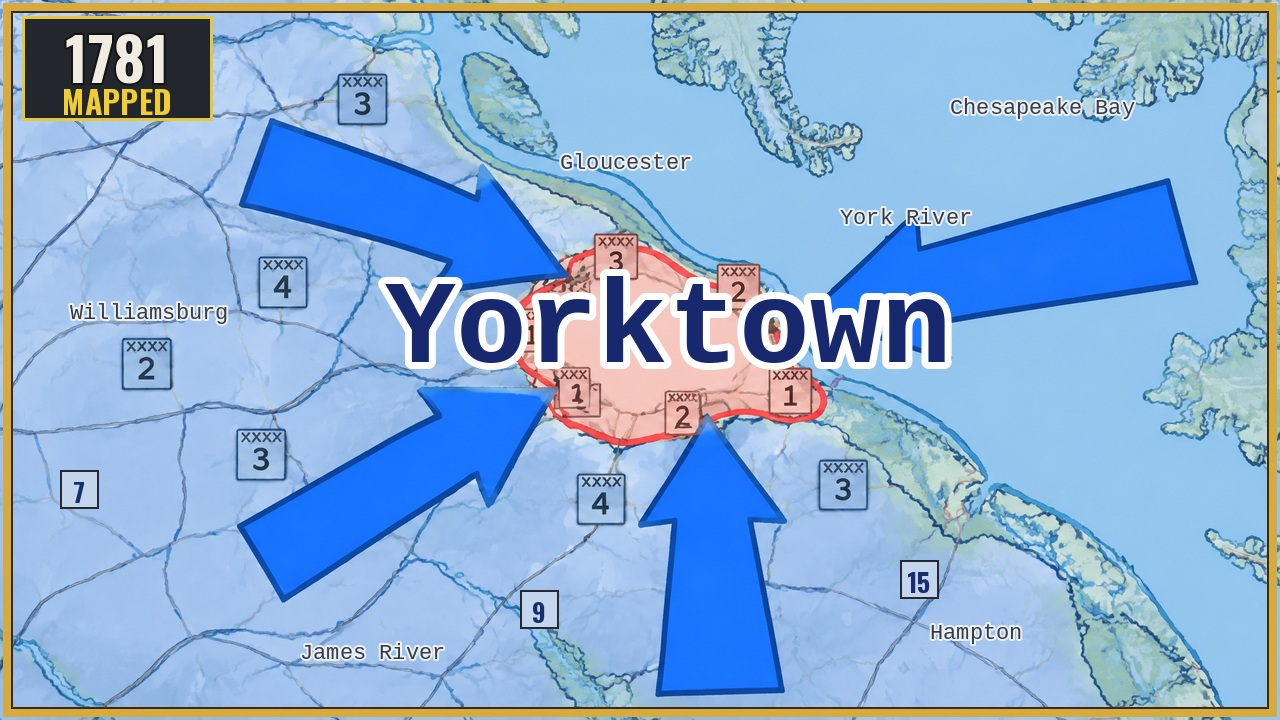
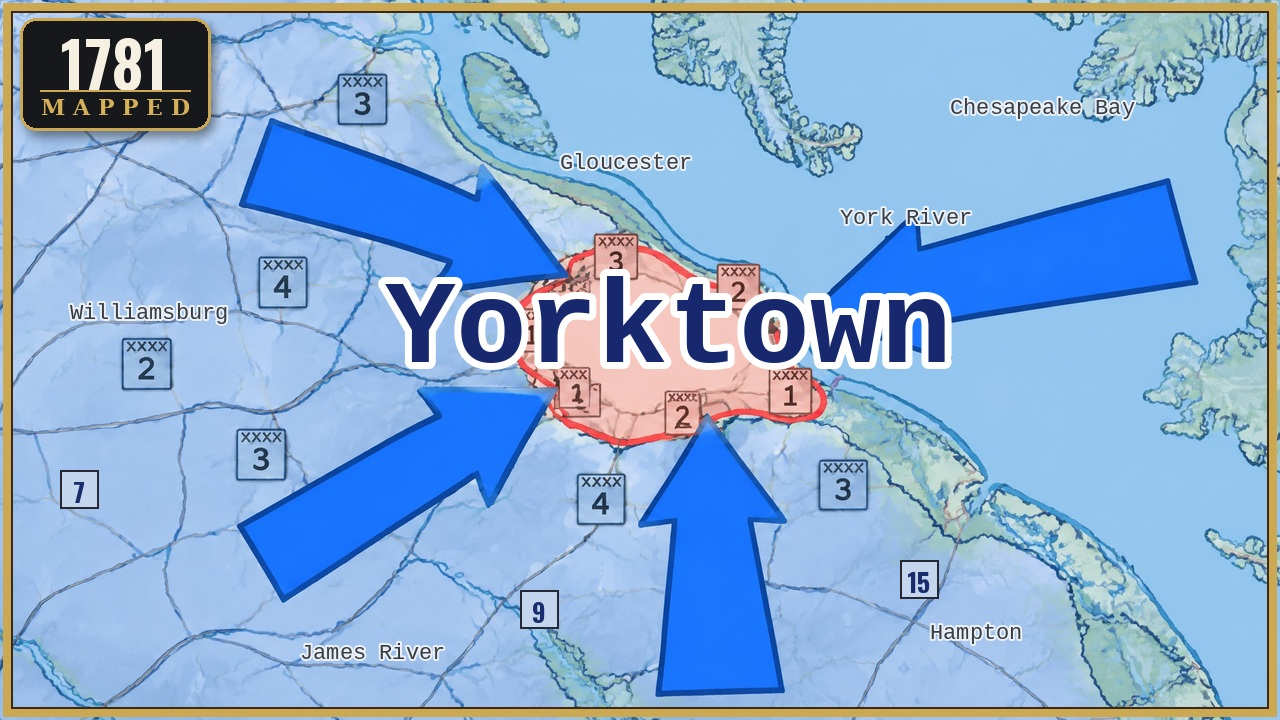
Yorktown: owner pick D2 with elegant 1781 MAPPED plate
Claude-Session: https://claude.ai/code/session_011uJnj9qiTapnfXz7fMPUDU

Changed region(s): [[0.0, 0.0, 0.1875, 0.2139]]

diff --git a/yorktown/tools/make_thumb_d2.py b/yorktown/tools/make_thumb_d2.py
@@ -20,13 +20,18 @@ for (x, y, n) in ():
     counter(x, y, n, (246, 196, 190), (130, 20, 20))
 # big place name (as before)
 d.text((668, 330), "Yorktown", font=ImageFont.truetype(MONO, 118), fill=(24, 40, 110), anchor="mm", stroke_width=7, stroke_fill=(255, 255, 255))
-# corner logo badge: stencil-like '1781' over 'MAPPED' (yellow), like the reference's 'WWII MAPPED'
-bx, by = 22, 16
-d.rectangle([bx, by, bx + 190, by + 104], fill=(35, 38, 45, 230), outline=(230, 200, 60), width=3)
-d.text((bx + 95, by + 40), "1781", font=ImageFont.truetype(O, 60), fill=(240, 236, 226), anchor="mm", stroke_width=2, stroke_fill=(20, 20, 20))
-d.text((bx + 95, by + 84), "MAPPED", font=ImageFont.truetype(O, 32), fill=(240, 205, 50), anchor="mm")
+# corner date plate (owner 2026-11-13: the old D2, only this badge redone elegantly, no logo)
+SERIF = "/usr/share/fonts/truetype/dejavu/DejaVuSerif-Bold.ttf"
+px, py, pw, ph = 20, 18, 190, 112
+plate = Image.new("RGBA", (W, H), (0, 0, 0, 0)); pd = ImageDraw.Draw(plate)
+pd.rounded_rectangle([px + 4, py + 6, px + pw + 4, py + ph + 6], radius=16, fill=(0, 0, 0, 110))
+im.alpha_composite(plate.filter(ImageFilter.GaussianBlur(5))); d = ImageDraw.Draw(im)
+d.rounded_rectangle([px, py, px + pw, py + ph], radius=16, fill=(22, 24, 28, 238), outline=(205, 168, 82), width=3)
+d.text((px + 95, py + 44), "1781", font=ImageFont.truetype(O, 62), fill=(246, 240, 226), anchor="mm")
+d.line([(px + 20, py + 72), (px + 170, py + 72)], fill=(205, 168, 82), width=2)
+d.text((px + 95, py + 89), "M A P P E D", font=ImageFont.truetype(SERIF, 22), fill=(214, 176, 88), anchor="mm")
 # gold frame
-d.rectangle([3, 3, W - 4, H - 4], outline=(214, 170, 60), width=8); d.rectangle([11, 11, W - 12, H - 12], outline=(60, 40, 20), width=2)
+d.rectangle([3, 3, W - 4, H - 4], outline=(205, 168, 82), width=8); d.rectangle([11, 11, W - 12, H - 12], outline=(60, 40, 20), width=2)
 im.convert("RGB").save("youtube/thumb/yorktown-thumb7-D2.jpg", quality=94)
 F2 = ImageFont.truetype(O, 24)
 s = Image.new("RGB", (2 * 640 + 2 * 168 + 100, 360 + 60), (24, 22, 20)); dd = ImageDraw.Draw(s)

diff --git a/yorktown/youtube/packaging.md b/yorktown/youtube/packaging.md
@@ -34,3 +34,5 @@ A face + 1-3 caps words + one red accent: `yorktown-thumbF-THE_TRAP.jpg` (Peale 
 - MAIN: `yorktown-thumb5-A_MAIN.jpg` (Peale close-up, THE TRAP / YORKTOWN, blue arrow round the town) with title A.
 - Test & Compare: `yorktown-thumb5-B_MAP.jpg` (our map, YORKTOWN · 1781, THE TRAP, one arrow; titles B/C) and `yorktown-thumb5-C_CIRCLE.jpg` (Trumbull, O'Hara circled, WHERE'S CORNWALLIS?; titles B/C, not A).
 - Packaging TEST claims (0b.2): THE TRAP = allied ring + French fleet (FACT_NOTES); WHERE'S CORNWALLIS? = Cornwallis stayed away claiming illness, O'Hara led the surrender (Thacher; Johnston); circled figure = O'Hara per Architect of the Capitol description of Trumbull's painting.
+
+## Owner pick 2026-11-13: D2 (Eastory-style map), as made, with only the corner badge redone as an elegant "1781 MAPPED" plate (no logo). File `youtube/thumb/yorktown-thumb7-D2.jpg` (`tools/make_thumb_d2.py`).
